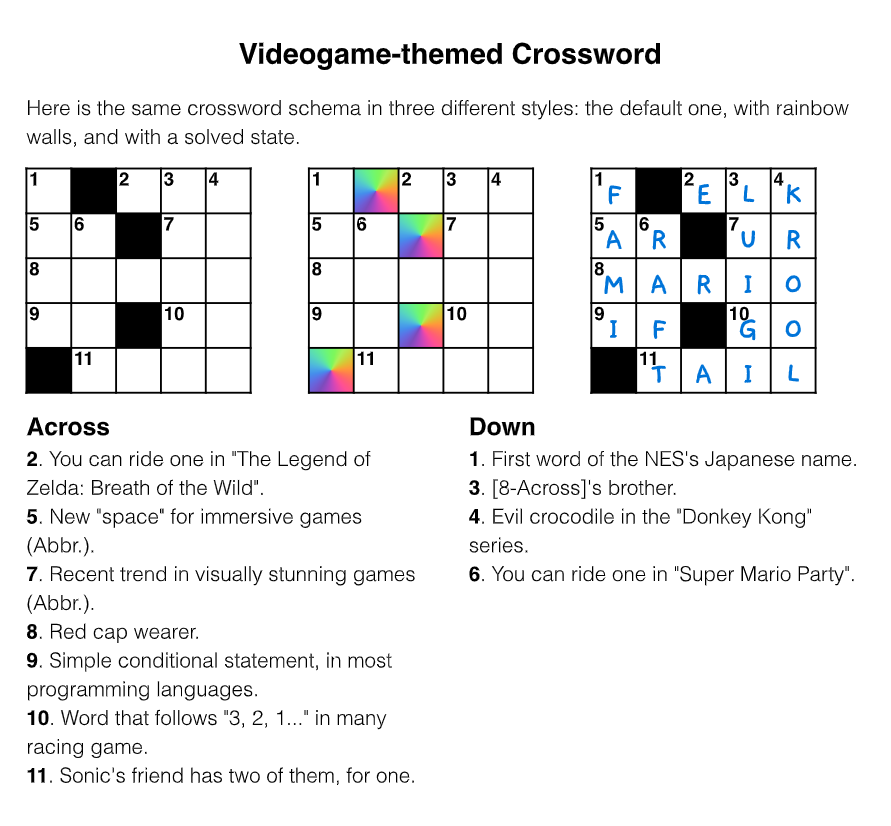
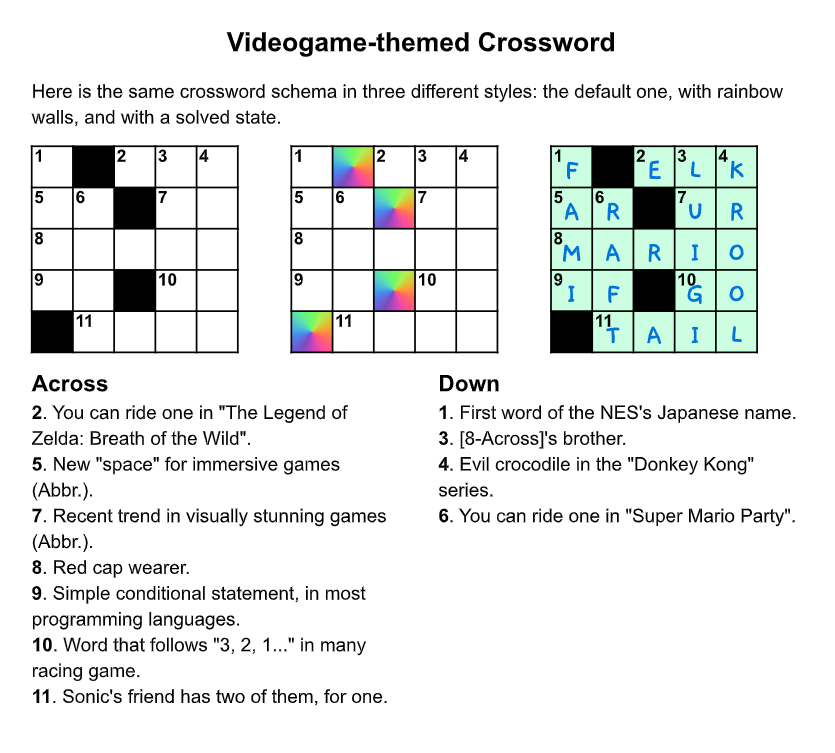
Allow better customization on the grid
- Version is now "0.2.0". `README.md` and manifest `typst.toml` files have been updated.
- The `show-schema` function now accepts more parameters, for a better customization of the puzzles.
- Fixed a small bug in creating the schema.
- Changed examples according to new features.

Changed region(s): [[0.0, 0.0305, 0.9653, 0.9469], [0.3425, 0.1833, 0.9653, 0.7025], [0.6539, 0.1833, 0.9341, 0.4887]]

diff --git a/README.md b/README.md
@@ -4,10 +4,37 @@
 <a href="https://www.gnu.org/licenses/gpl-3.0.en.html" style="text-decoration: none;"><img src="https://img.shields.io/badge/license-GPLv3-brightgreen?style=flat" alt="License GPLv3.0" /></a>
 
 A customizable tool for designing and visualizing **crossword puzzles** in [Typst](https://typst.app/).
+The name _"Griddle"_ mixes _"grid"_ and _"riddle"_, which kinda fit the idea of a crossword puzzle. ✏
 
-![An example of what can be obtained with Griddle](docs/example1.png)
+![An example of what can be obtained with Griddle](docs/example_init.png)
 
-The name _"Griddle"_ mixes _"grid"_ and _"riddle"_, which kinda fit the idea of a crossword puzzle.
+<details>
+  <summary><i><u>See the code for this example</u></i></summary>
+
+```typ
+#import "@preview/griddle:0.2.0": *
+
+#let cw = load-crossword(yaml("../examples/data_init.yaml"))
+
+= #h(10pt) A Simple Crossword Example
+
+#table(columns: (auto, 1fr), stroke: none, inset: 10pt,
+	[
+		#show-schema(cw.schema, 
+		cell-fill: auto, 
+		wall-fill: gradient.linear(..color.map.crest, relative: "parent", angle: -15deg),
+		)
+	],
+	[
+		#v(2em)
+		== Across
+		#show-definitions(cw.definitions.across)
+		== Down
+		#show-definitions(cw.definitions.down)
+	]
+)
+```
+</details>
 
 ## Usage
 _Griddle_ comes with three main functionalities: 
@@ -61,7 +88,7 @@ As it can be observed, each entry is composed by some mandatory and optional fie
 ### 2. Loading the crossword puzzle
 To load the crossword data into your Typst document, use the `load-crossword` function from the _Griddle_ library:
 ```typ
-#import "@preview/griddle:0.1.0": load-crossword
+#import "@preview/griddle:0.2.0": load-crossword
 
 #let cw = load-crossword(yaml("path/to/data.yaml"))
 ```
@@ -88,7 +115,7 @@ This data structure contains all the information needed to visualize the crosswo
 To visualize the schema of your crossword, just call the `show-schema` function where you want it to appear in your document. 
 
 ```typ
-#import "@preview/griddle:0.1.0": show-schema
+#import "@preview/griddle:0.2.0": show-schema
 // [... Load the crossword data as before ...]
 = Crossword
 #show-schema(cw.schema)
@@ -98,17 +125,27 @@ This function requires the `schema` field of your crossword data structure as in
 The grid is automatically styled to have a standard size, but you can customize it by passing additional parameters to the function.
 
 ```typ
-#show-schema(cw.schema, cell-size: (1fr, 1fr), wall: "empty")
+#show-schema(cw.schema, cell-fill: yellow, cell-stroke: green + 2pt, wall-fill: none, wall-stroke: none)
 ```
+You can compare the two versions in the following figures:
 
-The `cell-size` parameter allows you to set the size of each cell in the grid, by editing the width and height of the cells. The default value is `(24pt, 24pt)`, which is a good size for most crosswords.
+| Default style | "Fancy" style |
+| :---: | :---: |
+|<img src="docs/example_mini.png" alt="drawing" width="200"/> | <img src="docs/example_mini_fancy.png" alt="drawing" width="200"/> | 
 
-The `wall` parameter allows you to set the color of the walls between cells, modifying the style of your crossword grid. It supports three options:
-- `"black"`: the default value, which draws black walls between cells;
-- `"empty"`: which removes the walls between cells and uses a transparent background;
-- `"rainbow"`: which draws a fancy rainbow gradient between cells, creating a colorful effect.
+The `show-schema` functionality accepts the following parameters:
 
-See the examples in the next section for more details on how to use these parameters.
+- `cell-size` *(pair of lenghts):* This parameter allows you to set the size of each cell in the grid, by editing the width and height of the cells. The default value is `(24pt, 24pt)`, which is a good size for most crosswords. If the value `(1fr, 1fr)` is chosen, the grid would cover the whole page.
+
+- `cell-fill` *(color or gradient):* The color of the cells that have to be filled. Default value is `none`, which corresponds to the page background.
+
+- `cell-stroke` *(color, length):* The style of the cells border. Default value is `black + 1pt`.
+
+- `wall-fill` *(color or gradient):* The color or gradient used to fill the "blocked" cells in the grid. It is `black` by default.
+
+- `wall-stroke` *(color, length):* The style of the wall-cells border. Default value is equal to letter-cells' border: `black + 1pt`.
+
+- `solved` *(bool):* A boolean flag used to solve the grid by filling each cell with the correct letter. This is commonly used for debug purposed when creating the puzzle.
 
 ### 4. Printing the definitions
 To print the definitions of your crossword, you can use the `print-definitions` function. This function takes a list of entries of your crossword data structure as input and prints each of them in a nicely formatted way.
@@ -116,7 +153,7 @@ To print the definitions of your crossword, you can use the `print-definitions` 
 Notice that, in order to print all the definitions, you would call the function on both the `cw.definitions.across` and `cw.definitions.down` fields of your crossword data structure.
 
 ```typ
-#import "@preview/griddle:0.1.0": show-definitions
+#import "@preview/griddle:0.2.0": show-definitions
 // [... Load the crossword data as before ...]
 == Across
 #show-definitions(cw.definitions.across)
@@ -124,15 +161,15 @@ Notice that, in order to print all the definitions, you would call the function 
 #show-definitions(cw.definitions.down)
 ```
 
-The `show-definitions` function automatically formats the entries in an ordered list, with the number of the entry and its definition. It also changes the style of the definition text based on whether the entry is solved or not, adding a strikethrough effect to the solved entries and the solution word next to the definition.
+The `show-definitions` function automatically formats the entries in an **ordered list**, with the number of the entry and its definition. It also changes the style of the definition text based on whether the entry is solved or not, adding a strikethrough effect to the solved entries and the solution word next to the definition.
 
-## Examples
+## Gallery
 
 ### Example 1
 Here is a complete example of a Typst document using _Griddle_ to visualize a crossword puzzle:
 
 ```typ
-#import "@preview/griddle:0.1.0": *
+#import "@preview/griddle:0.2.0": *
 
 #let cw = load-crossword(yaml("path/to/data.yaml"))
 // Data file is the one from the previous examples
@@ -142,7 +179,7 @@ Here is a complete example of a Typst document using _Griddle_ to visualize a cr
 
 = Crossword
 #v(20pt)
-#show-schema(cw.schema, wall: "empty")
+#show-schema(cw.schema, wall-fill: none, wall-stroke: none)
 
 == Across #emoji.arrow.r
 #show-definitions(cw.definitions.across)
@@ -173,20 +210,20 @@ down:
 ```
 
 ```typ
-#import "@preview/griddle:0.1.0": *
+#import "@preview/griddle:0.2.0": *
 
 #let cw = load-crossword(yaml("path/to/data.yaml"))
 
 #show heading.where(level: 1): set align(center)
-#set text(font: "Helvetica")
+#set text(font: "Arial")
 
 #heading(level: 1)[Videogame-themed Crossword]
 #v(1em)
 Here is the same crossword schema in three different styles: the default one, with rainbow walls, and with a solved state.
 #table(columns: (1fr,)*3, rows: 1, stroke: none, align: left, inset: 0pt,
-	show-schema(cw.schema), 
-	show-schema(cw.schema, wall: "rainbow"), 
-	show-schema(cw.schema, solved: true)
+	show-schema(cw.schema), // Default
+	show-schema(cw.schema, wall-fill: gradient.conic(..color.map.rainbow, angle: -60deg)), // With fancy rainbow gradient
+	show-schema(cw.schema, cell-fill: lime.lighten(80%), solved: true) // solved
 	)
 
 #table(columns: 2, rows: 1, stroke: none, inset: 0pt, gutter: 20pt,
@@ -210,10 +247,19 @@ A more complex example of a crossword puzzle within a 30x30 grid, easily build a
 
 ![A more complex example of a 30x30 grid](docs/example3.png)
 
+In this example definitions are not provided. The schema is rendered with default style. 
+
 ### Example 4
 And finally, here is an example of the famous [Sator Square](https://en.wikipedia.org/wiki/Sator_Square) crossword, which is a 5x5 grid with the same words in both horizontal and vertical directions. The inscription _"Sator arepo tenet opera rotas"_ is a five-word palindrome in Latin, meaning "The farmer Arepo holds the wheels with care".
 
 ```typ
+#import "@preview/griddle:0.2.0": *
+
+#let cw = load-crossword(yaml("path/to/data.yaml"))
+
+// We set the `solved` flag as true, in order to see the grid filled
+#show-schema(cw.schema, solved: true)
+```
 
 ```yaml
 # In this example, the entries are listed in a flat structure. Furthermore, in order to have both horizontal and vertical entries, the same word is listed twice, once for each direction.
@@ -229,14 +275,16 @@ And finally, here is an example of the famous [Sator Square](https://en.wikipedi
 - {number: 5, row: 0, col: 4, direction: vertical, word: rotas, definition: ""}
 ```
 
-![The classical latin square "Sator arepo tenet opera rotas"](docs/example2.png)
+![The classical latin square "Sator arepo tenet opera rotas"](docs/example_sator.png)
 
 
 ## License
 This package is released under the GNU General Public License v3.0 (GPL-3.0). You can find the full license text in the [LICENSE](LICENSE) file.
 
 ## Contributing
-If you want to contribute to this project, feel free to open an issue or a pull request on the [GitHub repository](https://github.com/micheledusi/Griddle).
+If you want to contribute to this project, feel free to open an **issue** or a **pull request** on the [GitHub repository](https://github.com/micheledusi/Griddle).
+
+If you use this package to create something that deserves to be shared with the world, let me know! I'd be glad to add your work to this gallery.
 
 ### Credits
-This package was created by [Michele Dusi](https://github.com/micheledusi).
+This package is created by [Michele Dusi](https://github.com/micheledusi).
